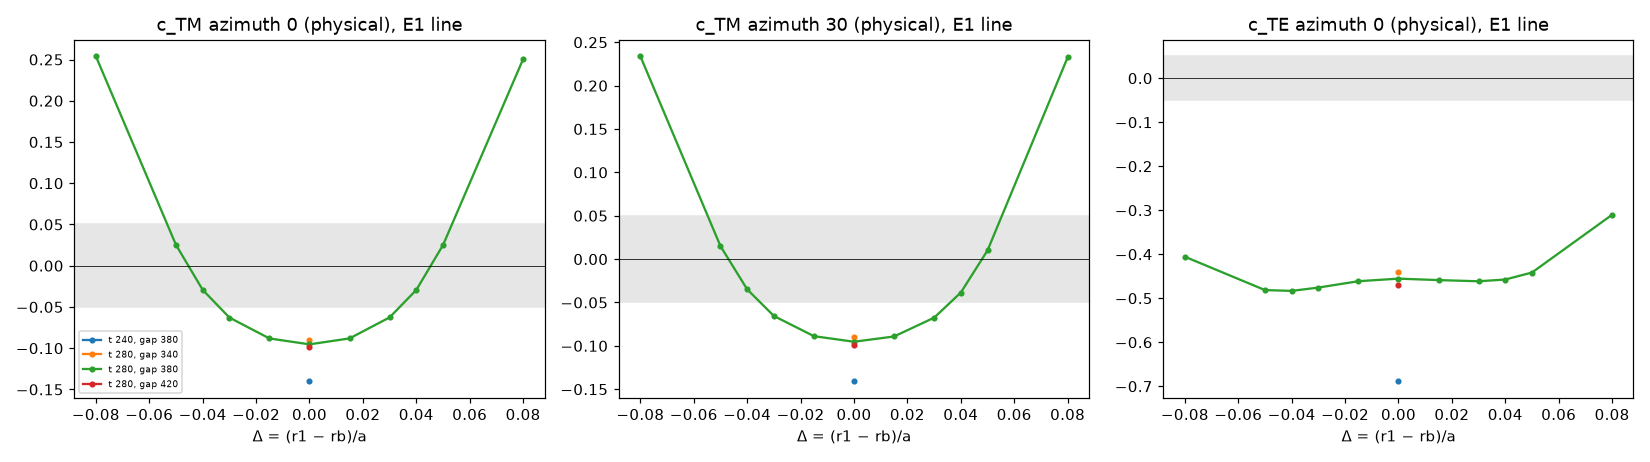
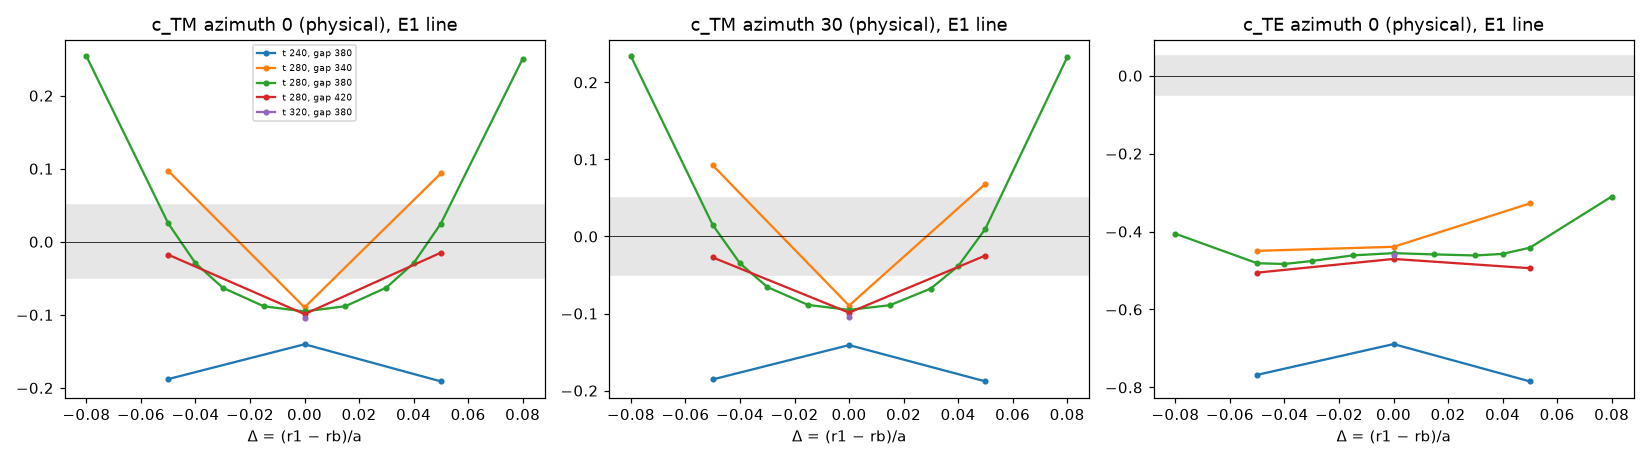
STATUS: T16c 21/35, T19a N8 running

diff --git a/STATUS.md b/STATUS.md
@@ -50,3 +50,5 @@ One line per run, newest at the bottom: `date | runs/ folder | state (running/do
 | 2026-11-23 | runs/20261122-1735_T16c_hex_r3 | running | T16c 07:55: 14 points done (restart 07:12, 7 procs); ETA ~10:00 |
 | 2026-11-23 | runs/20261122-1735_T16c_hex_r3 | running | T16c 10:42: WSL rebooted ~08:20 and killed all jobs (setsid cannot survive a reboot); 14 points done. Restarted the remaining 21 (Δ {0, ±0.05} × 8 (t, gap) pairs), 7 procs, ETA ~12:40 |
 | 2026-11-23 | runs/20261122-1710_T19a_twist_maps | running | T19a 10:42: N 8 at +1° lost in the reboot; restarted (N 8 +1°, then N 7 at +0.5°, +0.25°), ETA ~12:30 |
+| 2026-11-23 | runs/20261122-1735_T16c_hex_r3 | running | T16c 11:32: 21/35 points (7 of the 21 restarted ones done, ~30 min each). Target met at 0 points; best worst-|M| 3.06 (folded 1467.8 nm doublet, Δ 0, t 280, gap 420, Q 88). Remaining 14, ETA ~12:40 |
+| 2026-11-23 | runs/20261122-1710_T19a_twist_maps | running | T19a 11:32: N 8 at +1° still running (52 min so far, GPU 100 %, 9 GiB) |
